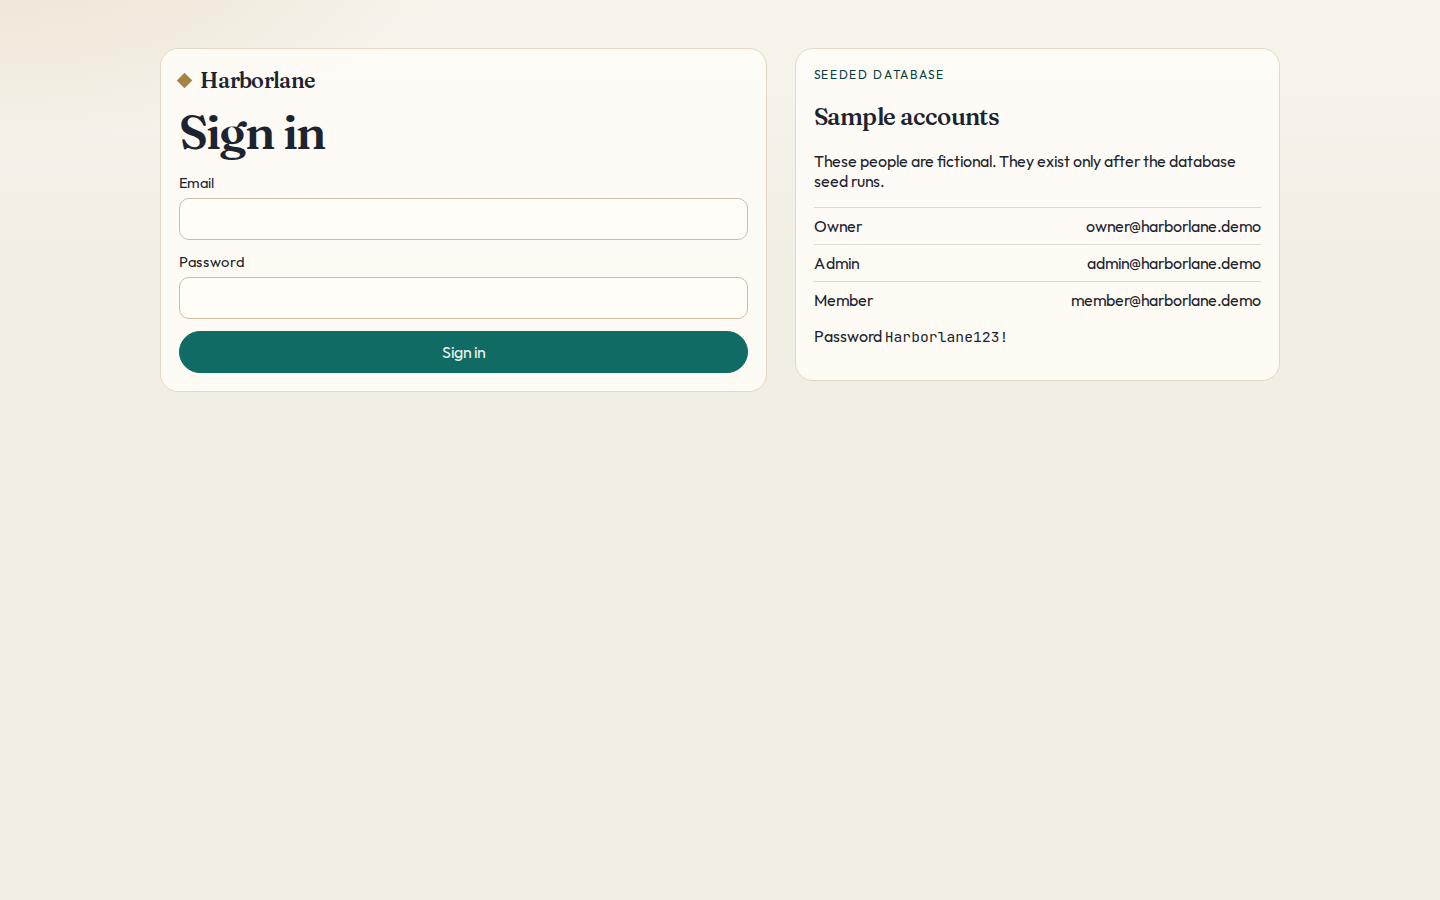
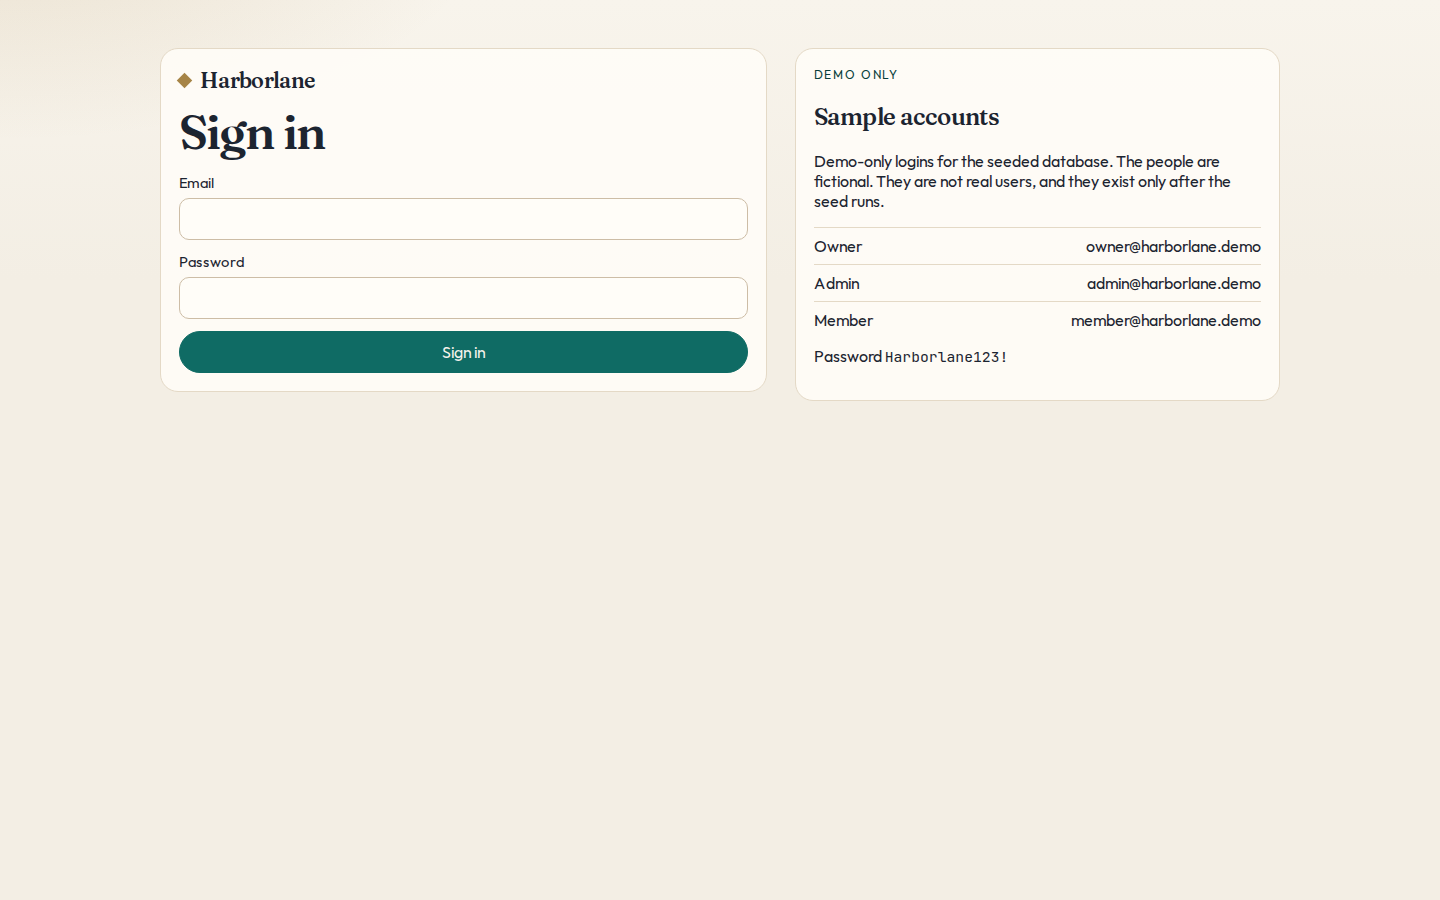
Prepare Harborlane for a public README
Add the architecture image, a short demo GIF, a CI badge, and a
demo-only label on the sample login. Live demo is not deployed yet.

Changed region(s): [[0.5625, 0.1556, 0.8438, 0.4044], [0.7188, 0.2489, 0.875, 0.3733], [0.5625, 0.0622, 0.6562, 0.0933]]

diff --git a/e2e/record-demo.ts b/e2e/record-demo.ts
@@ -1,0 +1,129 @@
+import { spawn } from "node:child_process";
+import { mkdir, rm, stat } from "node:fs/promises";
+import path from "node:path";
+import { chromium } from "@playwright/test";
+import { DEMO_ACCOUNTS, DEMO_PASSWORD } from "../src/domain/demo";
+
+const baseURL = "http://localhost:3000";
+const videoDir = path.resolve("tmp/demo-video");
+const gifPath = path.resolve("docs/demo.gif");
+
+async function waitForHealth(child: ReturnType<typeof spawn>) {
+  const deadline = Date.now() + 60_000;
+  while (Date.now() < deadline) {
+    if (child.exitCode !== null) throw new Error("next start exited before health");
+    try {
+      const response = await fetch(`${baseURL}/api/health`);
+      if (response.ok) return;
+    } catch {
+      // server still starting
+    }
+    await new Promise((resolve) => setTimeout(resolve, 500));
+  }
+  throw new Error("Timed out waiting for the app");
+}
+
+function pause(page: import("@playwright/test").Page, ms = 1100) {
+  return page.waitForTimeout(ms);
+}
+
+async function main() {
+  await rm(videoDir, { recursive: true, force: true });
+  await mkdir(videoDir, { recursive: true });
+  await mkdir(path.dirname(gifPath), { recursive: true });
+
+  const server = spawn("npx", ["next", "start", "-H", "0.0.0.0", "-p", "3000"], {
+    stdio: "inherit",
+    env: { ...process.env, PORT: "3000", BILLING_MODE: "mock" },
+  });
+
+  try {
+    await new Promise((resolve) => setTimeout(resolve, 800));
+    if (server.exitCode !== null) {
+      throw new Error(`next start exited with ${server.exitCode}`);
+    }
+    await waitForHealth(server);
+    const browser = await chromium.launch();
+    const context = await browser.newContext({
+      viewport: { width: 1100, height: 700 },
+      recordVideo: { dir: videoDir, size: { width: 1100, height: 700 } },
+    });
+    const page = await context.newPage();
+    const stamp = Date.now().toString().slice(-6);
+    const clientName = `Cedar Press ${stamp}`;
+
+    await page.goto(`${baseURL}/login`);
+    await pause(page, 500);
+    await page.getByLabel("Email").fill(DEMO_ACCOUNTS[0].email);
+    await page.getByLabel("Password").fill(DEMO_PASSWORD);
+    await pause(page, 400);
+    await page.getByRole("button", { name: "Sign in" }).click();
+    await page.getByRole("heading", { name: "Overview" }).waitFor();
+    await pause(page);
+
+    await page.goto(`${baseURL}/app/clients`);
+    await page.getByLabel("Client name").fill(clientName);
+    await page.getByLabel("Company").fill("Cedar Press");
+    await pause(page, 400);
+    await page.getByRole("button", { name: "Add client" }).click();
+    await page.getByText(clientName, { exact: true }).waitFor();
+    await pause(page);
+
+    await page.goto(`${baseURL}/app/invoices`);
+    await page.getByLabel("Client").selectOption({ label: clientName });
+    await page.getByLabel("Line description").fill("Poster set");
+    await page.getByLabel("Quantity").fill("1");
+    await page.getByLabel("Amount").fill("120.00");
+    await pause(page, 400);
+    await page.getByRole("button", { name: "Create invoice" }).click();
+    await page.getByRole("strong").filter({ hasText: "$120.00" }).waitFor();
+    await pause(page, 1600);
+
+    await page.goto(`${baseURL}/app/billing`);
+    const back = page.getByRole("button", { name: "Return to Free" });
+    if ((await back.count()) > 0) {
+      await back.click();
+      await page.getByTestId("plan-name").filter({ hasText: "Free" }).waitFor();
+    }
+    await page.getByRole("button", { name: "Activate Pro" }).click();
+    await page.getByTestId("plan-name").filter({ hasText: "Pro" }).waitFor();
+    await pause(page, 1600);
+
+    const video = page.video();
+    await context.close();
+    await browser.close();
+    const webm = video ? await video.path() : "";
+    if (!webm) throw new Error("Playwright did not write a video");
+
+    await new Promise<void>((resolve, reject) => {
+      const ffmpeg = spawn(
+        "ffmpeg",
+        [
+          "-y",
+          "-i",
+          webm,
+          "-vf",
+          "fps=8,scale=880:-1:flags=lanczos,split[s0][s1];[s0]palettegen=max_colors=96[p];[s1][p]paletteuse=dither=bayer",
+          "-loop",
+          "0",
+          gifPath,
+        ],
+        { stdio: "inherit" },
+      );
+      ffmpeg.on("exit", (code) => (code === 0 ? resolve() : reject(new Error(`ffmpeg exited ${code}`))));
+    });
+
+    const size = await stat(gifPath);
+    console.log(`Wrote ${gifPath} (${Math.round(size.size / 1024)} KB)`);
+    if (size.size > 5 * 1024 * 1024) {
+      throw new Error("Demo GIF is over 5 MB");
+    }
+  } finally {
+    server.kill("SIGTERM");
+  }
+}
+
+main().catch((error) => {
+  console.error(error);
+  process.exit(1);
+});

diff --git a/src/app/login/page.tsx b/src/app/login/page.tsx
@@ -44,9 +44,12 @@ export default async function LoginPage({
       </section>
       {demo ? (
         <aside className="auth-card">
-          <p className="kicker">Seeded database</p>
+          <p className="kicker">Demo only</p>
           <h2>Sample accounts</h2>
-          <p>These people are fictional. They exist only after the database seed runs.</p>
+          <p>
+            Demo-only logins for the seeded database. The people are fictional. They are not real
+            users, and they exist only after the seed runs.
+          </p>
           <ul className="activity">
             {DEMO_ACCOUNTS.map((account) => (
               <li key={account.email}>

diff --git a/src/domain/demo.ts b/src/domain/demo.ts
@@ -1,3 +1,4 @@
+// Demo-only seed logins. The people and the .demo addresses are fictional.
 export const DEMO_PASSWORD = "Harborlane123!";
 
 export const SAMPLE_ORG_SLUG = "sample-studio";

diff --git a/README.md b/README.md
@@ -1,49 +1,42 @@
 # Harborlane
 
-Portfolio demo for [Muhammad Ayaz](https://github.com/AyazAI). Harborlane is a multi-tenant workspace where a small service team keeps clients, tasks, and invoices in one organization, with roles and a Pro plan.
+[![CI](https://github.com/AyazAI/nextjs-saas-demo/actions/workflows/ci.yml/badge.svg)](https://github.com/AyazAI/nextjs-saas-demo/actions/workflows/ci.yml)
 
-This repository is named `nextjs-saas-demo`. A clearer name is **`harborlane`**. Renaming is left to the owner. The repository stays private.
+Portfolio demo by [Muhammad Ayaz](https://github.com/AyazAI). Harborlane is a multi-tenant workspace where a small service team keeps clients, tasks, and invoices together, with roles and a Pro plan.
 
-Live demo: not deployed.
+This repository is named `nextjs-saas-demo`. A clearer name is **`harborlane`**.
+
+**Live demo: not deployed yet.**
+
+Sample Studio and the seeded people are fictional. Harborlane is not a launched product. This README does not claim revenue, users, or client engagements.
 
 ## Problem
 
-Small teams split client work across a task list, a spreadsheet, and invoices. Harborlane puts those records in one workspace:
+Small teams split client work across a task list, a spreadsheet, and a stack of invoices. Harborlane puts those records in one organization:
 
-- An organization has members, clients, tasks, and invoices.
+- Members, clients, tasks, and invoices belong to a workspace.
 - Owners manage the plan. Admins run the books. Members move tasks and cannot create invoices.
 - The Free plan has low limits. Pro raises them.
 
-Sample Studio and its people are fictional seed data. They are not customers. Harborlane is not a launched product, and this README does not claim revenue, users, or client engagements.
-
 ## Architecture
 
-The browser talks to one Next.js app. Route handlers under `/api` are the HTTP API. They call domain services, which use Prisma. Auth.js (NextAuth.js 4, the stable line) issues a JWT session. Billing either calls Stripe in test mode or updates the plan locally when Stripe is not configured.
+The browser talks to one Next.js app. Route handlers under `/api` are the HTTP API. They call domain services, which use Prisma. NextAuth.js issues a JWT session. Billing either calls Stripe in test mode or updates the plan locally when Stripe is not configured.
 
 ```mermaid
 flowchart TD
-  browser[Browser]
-  nextApp[Next.js App Router]
-  api[Route handlers under /api]
-  auth[NextAuth.js credentials and optional GitHub]
-  domain[Domain services]
-  prisma[Prisma]
-  db[(Postgres)]
-  stripe[Stripe test mode]
-  mock[Local mock billing]
-
-  browser --> nextApp
-  nextApp --> api
-  api --> auth
-  api --> domain
-  domain --> prisma
-  prisma --> db
-  api --> stripe
-  api --> mock
+  browser[Browser] --> app[Next.js App Router]
+  app --> api[Route handlers under /api]
+  api --> auth[NextAuth.js]
+  api --> domain[Domain services]
+  domain --> db[(Postgres via Prisma)]
+  api --> stripe[Stripe test mode]
+  api --> mock[Local mock billing]
   stripe -->|signed webhook| api
 ```
 
-Route handlers live in the Next.js app instead of a second Node service. One process can sit on a single free web service, shares TypeScript types with the UI, and still exposes a real HTTP API. A separate service would need another host, CORS, and its own deploy.
+![Harborlane architecture](docs/architecture.png)
+
+Route handlers live in the Next.js app so one process can sit on a single free web service, share TypeScript types with the UI, and still expose an HTTP API.
 
 ## Stack
 
@@ -59,13 +52,15 @@ Route handlers live in the Next.js app instead of a second Node service. One pro
 
 Prisma 6.19.3 is the classic `prisma-client-js` client. The npm `latest` tag for Prisma is currently an 8.0 release candidate. NextAuth.js v5 is still `5.0.0-beta` and is not the npm `latest` release, so this demo stays on the stable 4.24 line.
 
+The CI badge points at [`.github/workflows/ci.yml`](.github/workflows/ci.yml). It shows the latest GitHub Actions result for that workflow. It is not a product metric.
+
 ## Run it locally
 
 Node.js 22 or newer, and Postgres 16.
 
 ```bash
 cp .env.example .env
-# Create the database from DATABASE_URL, then:
+# Create the database named in DATABASE_URL, then:
 npm install
 npx prisma migrate deploy
 npm run db:seed
@@ -85,9 +80,9 @@ docker compose exec app npm run db:seed
 
 The Compose app secret is a local placeholder. Postgres data lives in the `harborlane_pg` volume.
 
-### Sample accounts
+### Demo-only sample accounts
 
-These accounts exist only after seeding. They are fictional.
+These accounts exist only after seeding. They are fictional demo logins, not real users. Do not reuse the password anywhere else. Seeding a public URL publishes this password.
 
 | Role | Email | Password |
 | --- | --- | --- |
@@ -95,7 +90,29 @@ These accounts exist only after seeding. They are fictional.
 | Admin | admin@harborlane.demo | Harborlane123! |
 | Member | member@harborlane.demo | Harborlane123! |
 
-The login page lists them when the owner account is in the database.
+The login page lists them when the owner account is in the database, under a **Demo only** label.
+
+## Demo
+
+Sign in with the demo owner, add a client, create an invoice, and turn on Pro with mock billing. No card is charged.
+
+![Harborlane demo: sign in, add a client, create an invoice, activate Pro](docs/demo.gif)
+
+## Screenshots
+
+Taken with Playwright from the running app and the seeded database.
+
+![Harborlane marketing page](docs/screenshots/01-marketing.png)
+
+![Sign in, with demo-only sample accounts](docs/screenshots/02-login.png)
+
+![Sample Studio overview](docs/screenshots/03-overview.png)
+
+![Task board](docs/screenshots/04-tasks.png)
+
+![Invoice SAMPLE-1001](docs/screenshots/05-invoice.png)
+
+![Billing on the local mock](docs/screenshots/06-billing.png)
 
 ## Tests
 
@@ -175,7 +192,7 @@ Going back to Free does not delete records that are already over the cap. It blo
 
 ## Deploy a free demo
 
-Nothing in this repo has been deployed. Do not use a paid plan or live Stripe keys.
+Nothing in this repo has been deployed. Use a free tier and Stripe test mode only.
 
 A practical free path is **Vercel Hobby** for the Next.js app and **Neon** (or Supabase) for Postgres. A Render free **web service** also works: bind `0.0.0.0` and `$PORT` (the start script and Dockerfile already do), and expect the free instance to sleep after about 15 minutes. The filesystem is ephemeral, so the database has to be hosted elsewhere. Route handlers and webhooks need that web service.
 
@@ -189,7 +206,7 @@ Environment variables to set in the host, from `.env.example`:
 
 | Variable | Required | Notes |
 | --- | --- | --- |
-| `DATABASE_URL` | Yes | Neon or Supabase **pooled** URL for the app. Use the direct URL for `migrate deploy` if the host requires it. |
+| `DATABASE_URL` | Yes | Neon or Supabase pooled URL for the app. Use the direct URL for `migrate deploy` if the host requires it. |
 | `NEXTAUTH_URL` | Yes | Public origin, for example `https://your-app.vercel.app` |
 | `NEXTAUTH_SECRET` | Yes | `openssl rand -base64 32`. Not the placeholder in `.env.example`. |
 | `BILLING_MODE` | Yes for a first demo | `mock` until Stripe test keys exist |
@@ -199,35 +216,18 @@ Environment variables to set in the host, from `.env.example`:
 | `AUTH_GITHUB_ID` | No | GitHub OAuth client id |
 | `AUTH_GITHUB_SECRET` | No | GitHub OAuth client secret |
 
-Ayaz needs to create those accounts and keys himself: a Vercel or Render account, a Neon or Supabase project, a generated `NEXTAUTH_SECRET`, and optionally a GitHub OAuth app and a Stripe **test** product. This project does not provision them.
+The deployer creates those accounts and keys: a Vercel or Render account, a Neon or Supabase project, a generated `NEXTAUTH_SECRET`, and optionally a GitHub OAuth app and a Stripe **test** product. This project does not provision them.
 
-After the first deploy, run `prisma migrate deploy`. Run `npm run db:seed` only if the sample login should work. Seeding a public URL publishes the demo password above. The sample workspace holds fictional data, but anyone with the password can sign in as the owner.
+After the first deploy, run `prisma migrate deploy`. Run `npm run db:seed` only if the demo-only sample login should work. Anyone with that password can sign in as the owner of the fictional workspace.
 
 Stripe webhooks need the public HTTPS URL `https://<host>/api/billing/webhook` and the test signing secret. The mock path works with no Stripe account.
 
-## Decisions still open
+## Before a live URL
 
-- Rename the repository to `harborlane`, or pick another product name. Leave it private until there is a deliberate choice to show it publicly. A private repo is not visible to a hiring manager.
-- Host the free demo on Vercel + Neon, or on Render + Neon/Supabase.
-- Seed the live demo (shared sample login) or leave it signup-only.
-- Turn on GitHub OAuth, Stripe test checkout, or keep the local mock.
-- Replace Harborlane if a different small product is a better portfolio fit.
-
-## Screenshots
-
-Taken with Playwright from the running app and the seeded database.
-
-![Harborlane marketing page](docs/screenshots/01-marketing.png)
-
-![Sign in, with fictional sample accounts](docs/screenshots/02-login.png)
-
-![Sample Studio overview](docs/screenshots/03-overview.png)
-
-![Task board](docs/screenshots/04-tasks.png)
-
-![Invoice SAMPLE-1001](docs/screenshots/05-invoice.png)
-
-![Billing on the local mock](docs/screenshots/06-billing.png)
+- Rename the repository to `harborlane`, or keep `nextjs-saas-demo`.
+- Host on Vercel plus Neon, or on Render plus Neon or Supabase.
+- Seed the live demo (shared demo-only login) or leave it signup-only.
+- Turn on GitHub OAuth and Stripe test checkout, or keep the local mock.
 
 ## License
 
